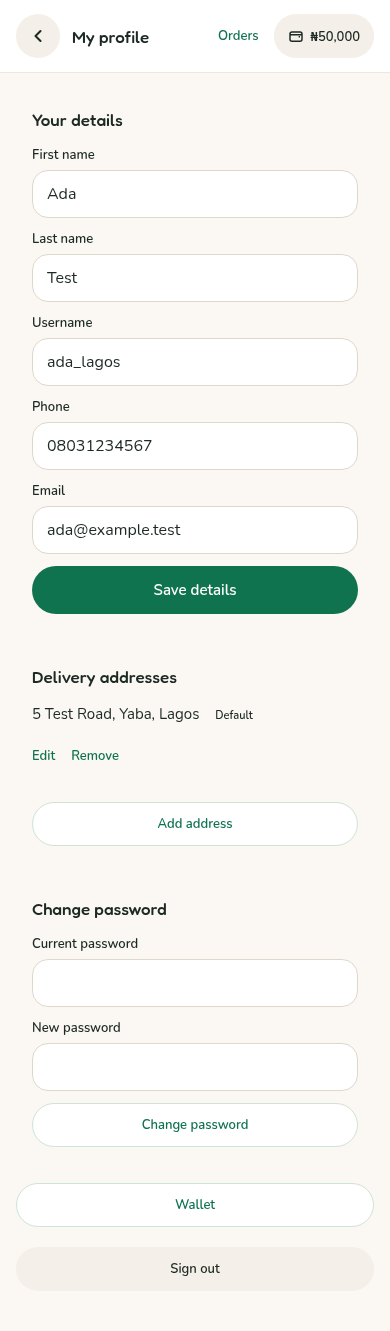
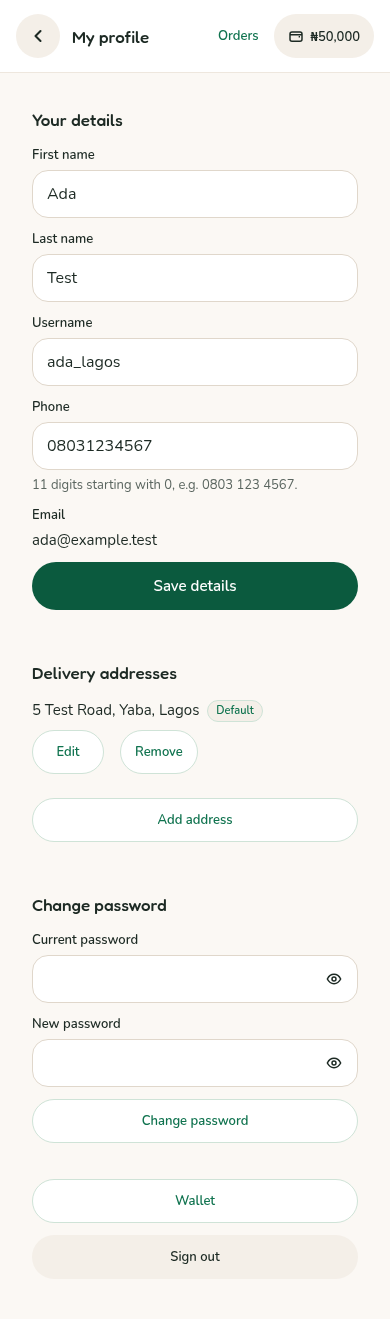
Polish address, wallet consent and profile controls
Align real wallet-sheet bank consent at 360px and 390px, disable address and purchase continuation outside the service area, and use matching local 11-digit phone rules and wording across buyer, studio and phone/pickup writes. Keep classic signup validation intact while studio submits local phone numbers.

Show profile email as text, add 44px address buttons, style Default and align account actions, add independent password visibility controls, and group the current-location note under the selected address. Retake all eight phone screenshots plus a narrow-wallet capture, add browser assertions and phone parity/API tests, and update PR notes.

diff --git a/buyer-web/src/pages/Me.jsx b/buyer-web/src/pages/Me.jsx
@@ -3,8 +3,13 @@ import {useEffect,useState} from 'react';
 import {Link,Navigate} from 'react-router-dom';
 import {api,errorMessage} from '../api';
 import {useAuth} from '../auth';
-import {Header} from '../components/ui';
+import {PHONE_HINT} from '../phone';
+import {Header,Icon} from '../components/ui';
 import AddressSheet,{phoneProblem} from '../components/AddressSheet';
+function PasswordField({label,id,value,onChange,newPassword=false}){
+ const [visible,setVisible]=useState(false);
+ return <div className="fl"><label className="lab" htmlFor={id}>{label}</label><div className="profile-password"><input id={id} className="in" type={visible?'text':'password'} autoComplete={newPassword?'new-password':'current-password'} minLength={newPassword?8:undefined} maxLength={newPassword?72:undefined} required value={value} onChange={onChange}/><button type="button" className="ib" aria-label={`${visible?'Hide':'Show'} ${label.toLowerCase()}`} aria-pressed={visible} aria-controls={id} onClick={()=>setVisible(v=>!v)}>{Icon.eye}{visible&&<span className="eye-slash" aria-hidden="true"/>}</button></div></div>;
+}
 export default function Me(){
  const {buyer,loading,signedIn,refresh,signIn,signOut}=useAuth();
  const [profile,setProfile]=useState({}),[editing,setEditing]=useState(null),[busy,setBusy]=useState(false),[error,setError]=useState(''),[notice,setNotice]=useState(''),[password,setPassword]=useState({currentPassword:'',newPassword:''});
@@ -15,11 +20,11 @@ export default function Me(){
  return <div className="app"><Header back="/" title="My profile"/><main className="wrap buyer-profile" style={{padding:'20px 16px 40px',display:'flex',flexDirection:'column',gap:20,maxWidth:560}}>
   {error&&<p className="err" role="alert">{error}</p>}{notice&&<p className="hint" role="status">{notice}</p>}
   <form className="card" style={{padding:16,display:'grid',gap:12}} onSubmit={e=>{e.preventDefault();action(async()=>{if(phoneProblem(profile.phoneNumber))throw {message:phoneProblem(profile.phoneNumber),response:{data:{message:phoneProblem(profile.phoneNumber)}}};await api.updateProfile({firstName:profile.firstName,lastName:profile.lastName,username:profile.username});await api.savePhone(profile.phoneNumber);await refresh();setNotice('Profile saved.');});}}>
-   <h1 className="h2">Your details</h1>{[['firstName','First name'],['lastName','Last name'],['username','Username'],['phoneNumber','Phone']].map(([key,label])=><label className="lab" key={key}>{label}<input className="in" value={profile[key] || ''} type={key==='phoneNumber'?'tel':'text'} autoComplete={key==='phoneNumber'?'tel':key==='username'?'username':key==='firstName'?'given-name':'family-name'} onChange={e=>setProfile({...profile,[key]:e.target.value})} required/></label>)}
-   <label className="lab">Email<input className="in" type="email" value={buyer.email || ''} readOnly/></label><button className="btn" disabled={busy}>Save details</button>
+   <h1 className="h2">Your details</h1>{[['firstName','First name'],['lastName','Last name'],['username','Username'],['phoneNumber','Phone']].map(([key,label])=><label className="lab" key={key}>{label}<input className="in" value={profile[key] || ''} type={key==='phoneNumber'?'tel':'text'} autoComplete={key==='phoneNumber'?'tel':key==='username'?'username':key==='firstName'?'given-name':'family-name'} onChange={e=>setProfile({...profile,[key]:e.target.value})} required={key!=='phoneNumber'}/>{key==='phoneNumber'&&<span className="hint">{PHONE_HINT}</span>}</label>)}
+   <div className="fl"><span className="lab">Email</span><span className="profile-email">{buyer.email}</span></div><button className="btn" disabled={busy}>Save details</button>
   </form>
-  <section className="card" style={{padding:16,display:'grid',gap:12}}><h2 className="h2">Delivery addresses</h2>{!buyer.shippingAddresses?.length&&<p className="hint">Add an address before your first bid.</p>}{buyer.shippingAddresses?.map(a=><div key={a._id} style={{borderBottom:'1px solid var(--line)',paddingBottom:12}}><p style={{margin:'0 0 8px'}}>{[a.addressLine1,a.city,a.state].filter(Boolean).join(', ')}{a.isActive&&<span className="pill">Default</span>}</p><div style={{display:'flex',gap:16,flexWrap:'wrap'}}><button className="link" disabled={busy} onClick={()=>setEditing(a)}>Edit</button>{!a.isActive&&<button className="link" disabled={busy} onClick={()=>action(async()=>{await api.activateAddress(a._id);await refresh();})}>Set default</button>}<button className="link" disabled={busy} onClick={()=>{if(window.confirm('Remove this delivery address?'))action(async()=>{await api.removeAddress(a._id);await refresh();});}}>Remove</button></div></div>)}<button className="btn2" onClick={()=>setEditing({})}>Add address</button></section>
-  <form className="card" style={{padding:16,display:'grid',gap:12}} onSubmit={e=>{e.preventDefault();action(async()=>{const result=await api.changePassword(password);await signIn(result.token,{quiet:true});setPassword({currentPassword:'',newPassword:''});setNotice('Password changed. Other devices have been signed out.');});}}><h2 className="h2">Change password</h2><label className="lab">Current password<input className="in" type="password" autoComplete="current-password" required value={password.currentPassword} onChange={e=>setPassword({...password,currentPassword:e.target.value})}/></label><label className="lab">New password<input className="in" type="password" autoComplete="new-password" minLength={8} maxLength={72} required value={password.newPassword} onChange={e=>setPassword({...password,newPassword:e.target.value})}/></label><button className="btn2" disabled={busy}>Change password</button></form>
-  <Link className="btn2" to="/wallet">Wallet</Link><button className="btn3" onClick={signOut}>Sign out</button>
+  <section className="card" style={{padding:16,display:'grid',gap:12}}><h2 className="h2">Delivery addresses</h2>{!buyer.shippingAddresses?.length&&<p className="hint">Add an address before your first bid.</p>}{buyer.shippingAddresses?.map(a=><div key={a._id} style={{borderBottom:'1px solid var(--line)',paddingBottom:12}}><p style={{margin:'0 0 8px'}}>{[a.addressLine1,a.city,a.state].filter(Boolean).join(', ')}{a.isActive&&<span className="pill profile-default">Default</span>}</p><div style={{display:'flex',gap:16,flexWrap:'wrap'}}><button className="btn2 profile-address-action" disabled={busy} onClick={()=>setEditing(a)}>Edit</button>{!a.isActive&&<button className="btn2 profile-address-action" disabled={busy} onClick={()=>action(async()=>{await api.activateAddress(a._id);await refresh();})}>Set default</button>}<button className="btn2 profile-address-action" disabled={busy} onClick={()=>{if(window.confirm('Remove this delivery address?'))action(async()=>{await api.removeAddress(a._id);await refresh();});}}>Remove</button></div></div>)}<button className="btn2" onClick={()=>setEditing({})}>Add address</button></section>
+  <form className="card" style={{padding:16,display:'grid',gap:12}} onSubmit={e=>{e.preventDefault();action(async()=>{const result=await api.changePassword(password);await signIn(result.token,{quiet:true});setPassword({currentPassword:'',newPassword:''});setNotice('Password changed. Other devices have been signed out.');});}}><h2 className="h2">Change password</h2><PasswordField label="Current password" id="profile-current-password" value={password.currentPassword} onChange={e=>setPassword({...password,currentPassword:e.target.value})}/><PasswordField label="New password" id="profile-new-password" newPassword value={password.newPassword} onChange={e=>setPassword({...password,newPassword:e.target.value})}/><button className="btn2" disabled={busy}>Change password</button></form>
+  <div className="profile-account-actions"><Link className="btn2" to="/wallet">Wallet</Link><button className="btn3" onClick={signOut}>Sign out</button></div>
  </main>{editing!==null&&<AddressSheet initialAddress={editing} onClose={()=>setEditing(null)} onSaved={()=>{setEditing(null);setNotice('Address saved.');}}/>}</div>;
 }

diff --git a/buyer-web/src/components/GoogleAddress.jsx b/buyer-web/src/components/GoogleAddress.jsx
@@ -18,13 +18,14 @@ export default function GoogleAddress({config,value,onChange,onNotify,needContac
     return()=>{clearTimeout(timer);sequence.current++;};
   },[query,status,editing,config]);
   useEffect(()=>{if(status==='fallback'&&config?.states?.length===1&&!allowedPlace(config,value.state))onChange({state:config.states[0],city:'',lga:'',addressLine1:'',latitude:null,longitude:null,addressSource:'manual',formattedAddress:''});},[status,config,value.state,onChange]);
-  const apply=place=>{
+  const [fromLocation,setFromLocation]=useState(false);
+  const apply=(place,currentLocation=false)=>{
     if(!config?.states?.length){setError('Delivery areas are still loading. Please try again.');return;}
     const address=mapPlace(place);
     if(address.country.toUpperCase()!=='NG'){setError('Choose an address in Nigeria.');return;}
     if(!allowedPlace(config,address.state)){setSuggestions([]);setNotice('');setOutside(address.state);onChange({...address,addressLine1:''});return;}
     if(!address.addressLine1||!address.city||!Number.isFinite(address.latitude)||!Number.isFinite(address.longitude)){setError('Google didn’t return a complete address. Choose your area below.');setStatus('fallback');return;}
-    setOutside(null);onChange(address);setSuggestions([]);setEditing(false);setError('');
+    setFromLocation(currentLocation);setOutside(null);onChange(address);setSuggestions([]);setEditing(false);setError('');
   };
   const pick=async suggestion=>{setBusy(true);setError('');sequence.current++;try{
     const place=suggestion.placePrediction.toPlace();await place.fetchFields({fields:PLACE_FIELDS});if(active.current)apply(place);
@@ -36,14 +37,14 @@ export default function GoogleAddress({config,value,onChange,onNotify,needContac
     setBusy(true);navigator.geolocation.getCurrentPosition(async position=>{try{
       const {Geocoder}=await sdk.current.maps.importLibrary('geocoding');
       const result=await new Geocoder().geocode({location:{lat:position.coords.latitude,lng:position.coords.longitude},region:'ng'});
-      if(active.current){if(!result.results?.length)throw new Error('empty');apply(result.results[0]);setNotice('Address found from your current location.');}
+      if(active.current){if(!result.results?.length)throw new Error('empty');apply(result.results[0],true);setNotice('');}
     }catch{if(active.current)setError('We couldn’t find an address at your location. Type your address instead.');}
     finally{if(active.current)setBusy(false);}},failure=>{if(active.current){setBusy(false);setNotice('');setError(failure.code===1?'Location permission was denied. Type your address instead.':'We couldn’t get your location. Type your address instead.');}},{enableHighAccuracy:true,timeout:12000,maximumAge:30000});
   };
   if(status==='fallback')return <>{error&&<p className="hint" role="status">{error}</p>}{children}</>;
   return <section className="ga-address" aria-label="Find your address">
     {status==='loading'?<p className="hint" role="status">Loading address search…</p>:<>
-      {!editing&&value.addressLine1?<div className="ga-picked"><span>{value.formattedAddress || [value.addressLine1,value.city,value.state].filter(Boolean).join(', ')}</span><button type="button" className="link" onClick={()=>{setEditing(true);setQuery('');setNotice('');onChange({addressLine1:'',city:'',lga:'',latitude:null,longitude:null,addressSource:'manual',formattedAddress:''});}}>Change</button></div>:<>
+      {!editing&&value.addressLine1?<div className="ga-selection"><div className="ga-picked"><span>{value.formattedAddress || [value.addressLine1,value.city,value.state].filter(Boolean).join(', ')}</span><button type="button" className="link" onClick={()=>{setEditing(true);setQuery('');setNotice('');onChange({addressLine1:'',city:'',lga:'',latitude:null,longitude:null,addressSource:'manual',formattedAddress:''});}}>Change</button></div>{fromLocation&&<p className="hint ga-location-note" role="status">Address found from your current location</p>}</div>:<>
         <label className="lab" htmlFor={`places-${id}`}>Start typing your street or building</label>
         <input id={`places-${id}`} className="in" placeholder="Start typing your street or building" value={query} disabled={busy} autoComplete="off" role="combobox" aria-autocomplete="list" aria-expanded={suggestions.length>0} aria-controls={`places-list-${id}`} aria-activedescendant={suggestions.length?`places-option-${id}-${highlight}`:undefined} onChange={e=>{setQuery(e.target.value);setError('');setOutside(null);}} onKeyDown={e=>{if(e.key==='ArrowDown'&&suggestions.length){e.preventDefault();setHighlight(i=>(i+1)%suggestions.length);}if(e.key==='ArrowUp'&&suggestions.length){e.preventDefault();setHighlight(i=>(i+suggestions.length-1)%suggestions.length);}if(e.key==='Enter'){e.preventDefault();if(suggestions[highlight])pick(suggestions[highlight]);}if(e.key==='Escape'&&suggestions.length){e.preventDefault();e.stopPropagation();setSuggestions([]);}}} />
         {!!suggestions.length&&<div id={`places-list-${id}`} className="ga-suggestions" role="listbox">{suggestions.map((suggestion,i)=><button id={`places-option-${id}-${i}`} key={suggestion.placePrediction.placeId || i} type="button" role="option" aria-selected={i===highlight} disabled={busy} onClick={()=>pick(suggestion)}>{suggestion.placePrediction.text.toString()}</button>)}</div>}

diff --git a/seller-web/src/studio/GoogleAddress.jsx b/seller-web/src/studio/GoogleAddress.jsx
@@ -18,13 +18,14 @@ export default function GoogleAddress({config,value,onChange,onNotify,needContac
     return()=>{clearTimeout(timer);sequence.current++;};
   },[query,status,editing,config]);
   useEffect(()=>{if(status==='fallback'&&config?.states?.length===1&&!allowedPlace(config,value.state))onChange({state:config.states[0],city:'',lga:'',addressLine1:'',latitude:null,longitude:null,addressSource:'manual',formattedAddress:''});},[status,config,value.state,onChange]);
-  const apply=place=>{
+  const [fromLocation,setFromLocation]=useState(false);
+  const apply=(place,currentLocation=false)=>{
     if(!config?.states?.length){setError('Delivery areas are still loading. Please try again.');return;}
     const address=mapPlace(place);
     if(address.country.toUpperCase()!=='NG'){setError('Choose an address in Nigeria.');return;}
     if(!allowedPlace(config,address.state)){setSuggestions([]);setNotice('');setOutside(address.state);onChange({...address,addressLine1:''});return;}
     if(!address.addressLine1||!address.city||!Number.isFinite(address.latitude)||!Number.isFinite(address.longitude)){setError('Google didn’t return a complete address. Choose your area below.');setStatus('fallback');return;}
-    setOutside(null);onChange(address);setSuggestions([]);setEditing(false);setError('');
+    setFromLocation(currentLocation);setOutside(null);onChange(address);setSuggestions([]);setEditing(false);setError('');
   };
   const pick=async suggestion=>{setBusy(true);setError('');sequence.current++;try{
     const place=suggestion.placePrediction.toPlace();await place.fetchFields({fields:PLACE_FIELDS});if(active.current)apply(place);
@@ -36,14 +37,14 @@ export default function GoogleAddress({config,value,onChange,onNotify,needContac
     setBusy(true);navigator.geolocation.getCurrentPosition(async position=>{try{
       const {Geocoder}=await sdk.current.maps.importLibrary('geocoding');
       const result=await new Geocoder().geocode({location:{lat:position.coords.latitude,lng:position.coords.longitude},region:'ng'});
-      if(active.current){if(!result.results?.length)throw new Error('empty');apply(result.results[0]);setNotice('Address found from your current location.');}
+      if(active.current){if(!result.results?.length)throw new Error('empty');apply(result.results[0],true);setNotice('');}
     }catch{if(active.current)setError('We couldn’t find an address at your location. Type your address instead.');}
     finally{if(active.current)setBusy(false);}},failure=>{if(active.current){setBusy(false);setNotice('');setError(failure.code===1?'Location permission was denied. Type your address instead.':'We couldn’t get your location. Type your address instead.');}},{enableHighAccuracy:true,timeout:12000,maximumAge:30000});
   };
   if(status==='fallback')return <>{error&&<p className="hint" role="status">{error}</p>}{children}</>;
   return <section className="ga-address" aria-label="Find your address">
     {status==='loading'?<p className="hint" role="status">Loading address search…</p>:<>
-      {!editing&&value.addressLine1?<div className="ga-picked"><span>{value.formattedAddress || [value.addressLine1,value.city,value.state].filter(Boolean).join(', ')}</span><button type="button" className="link" onClick={()=>{setEditing(true);setQuery('');setNotice('');onChange({addressLine1:'',city:'',lga:'',latitude:null,longitude:null,addressSource:'manual',formattedAddress:''});}}>Change</button></div>:<>
+      {!editing&&value.addressLine1?<div className="ga-selection"><div className="ga-picked"><span>{value.formattedAddress || [value.addressLine1,value.city,value.state].filter(Boolean).join(', ')}</span><button type="button" className="link" onClick={()=>{setEditing(true);setQuery('');setNotice('');onChange({addressLine1:'',city:'',lga:'',latitude:null,longitude:null,addressSource:'manual',formattedAddress:''});}}>Change</button></div>{fromLocation&&<p className="hint ga-location-note" role="status">Address found from your current location</p>}</div>:<>
         <label className="lab" htmlFor={`places-${id}`}>Start typing your street or building</label>
         <input id={`places-${id}`} className="in" placeholder="Start typing your street or building" value={query} disabled={busy} autoComplete="off" role="combobox" aria-autocomplete="list" aria-expanded={suggestions.length>0} aria-controls={`places-list-${id}`} aria-activedescendant={suggestions.length?`places-option-${id}-${highlight}`:undefined} onChange={e=>{setQuery(e.target.value);setError('');setOutside(null);}} onKeyDown={e=>{if(e.key==='ArrowDown'&&suggestions.length){e.preventDefault();setHighlight(i=>(i+1)%suggestions.length);}if(e.key==='ArrowUp'&&suggestions.length){e.preventDefault();setHighlight(i=>(i+suggestions.length-1)%suggestions.length);}if(e.key==='Enter'){e.preventDefault();if(suggestions[highlight])pick(suggestions[highlight]);}if(e.key==='Escape'&&suggestions.length){e.preventDefault();e.stopPropagation();setSuggestions([]);}}} />
         {!!suggestions.length&&<div id={`places-list-${id}`} className="ga-suggestions" role="listbox">{suggestions.map((suggestion,i)=><button id={`places-option-${id}-${i}`} key={suggestion.placePrediction.placeId || i} type="button" role="option" aria-selected={i===highlight} disabled={busy} onClick={()=>pick(suggestion)}>{suggestion.placePrediction.text.toString()}</button>)}</div>}

diff --git a/buyer-web/src/components/StayOnStreamTopUps.jsx b/buyer-web/src/components/StayOnStreamTopUps.jsx
@@ -2,12 +2,13 @@ import { useEffect, useRef, useState } from 'react';
 import { api, errorMessage, naira } from '../api';
 import { resumeSavedCard } from '../payments';
 import { useAuth } from '../auth';
-import {phoneProblem} from './AddressSheet';
+import {phoneProblem,PHONE_HINT} from '../phone';
 import { oneTapAmount } from '../walletIntents';
 
 export default function StayOnStreamTopUps({ methods, amount, need, onDone, onWaiting, onPending, onMethod, onUseAnotherCard, onBusyChange, initialBank }) {
   const { buyer,refresh } = useAuth();
   const [phone,setPhone]=useState('');
+  const needsPhone=Boolean(phoneProblem(buyer?.phoneNumber));
   const [cards, setCards] = useState([]), [dva, setDva] = useState({ status: 'none' });
   const [bank, setBank] = useState(Boolean(initialBank)), [consent, setConsent] = useState(false);
   const [error, setError] = useState(''), [busy, setBusy] = useState(''), [notice, setNotice] = useState('');
@@ -59,7 +60,7 @@ export default function StayOnStreamTopUps({ methods, amount, need, onDone, onWa
   };
   const assign = async () => {
     setBusy('Setting up your account number…'); setError('');
-    try { if(!buyer?.phoneNumber){const problem=phoneProblem(phone);if(problem)throw {response:{data:{message:problem}}};await api.savePhone(phone);await refresh();} const account = await api.assignDva(); setDva(account); callbacks.current.onWaiting?.({ ...account, since: waitingSince.current }); }
+    try { if(needsPhone){const problem=phoneProblem(phone);if(problem)throw {response:{data:{message:problem}}};await api.savePhone(phone);await refresh();} const account = await api.assignDva(); setDva(account); callbacks.current.onWaiting?.({ ...account, since: waitingSince.current }); }
     catch (e) { setError(errorMessage(e, 'We can’t set up an account number right now. Use a card instead.')); }
     finally { if (mounted.current) setBusy(''); }
   };
@@ -94,8 +95,8 @@ export default function StayOnStreamTopUps({ methods, amount, need, onDone, onWa
       <h3 className="h2">Get your own account number</h3>
       <p className="hint">Paystack opens a bank account number in your name. Any transfer to it lands in your gbam wallet in seconds. You keep it for every show.</p>
       <span>{[buyer?.firstName, buyer?.lastName].filter(Boolean).join(' ') || 'Add your name in your profile'}</span>
-      <span className="hint">{buyer?.phoneNumber ? `•••••••${buyer.phoneNumber.slice(-4)}` : 'Add your phone here to get an account number.'}</span>
-      {!buyer?.phoneNumber&&<div className="fl"><label className="lab" htmlFor="dva-phone">Phone</label><input id="dva-phone" className="in" type="tel" autoComplete="tel" placeholder="0803 123 4567" value={phone} onChange={e=>setPhone(e.target.value)}/></div>}
+      <span className="hint">{!needsPhone ? `•••••••${buyer.phoneNumber.slice(-4)}` : 'Add your phone here to get an account number.'}</span>
+      {needsPhone&&<div className="fl"><label className="lab" htmlFor="dva-phone">Phone</label><input id="dva-phone" className="in" type="tel" autoComplete="tel" placeholder="0803 123 4567" value={phone} onChange={e=>setPhone(e.target.value)}/><span className="hint">{PHONE_HINT}</span></div>}
       <label className="hint"><input type="checkbox" checked={consent} onChange={(e) => setConsent(e.target.checked)} /> I agree to Paystack opening an account number in my name for gbam top-ups.</label>
       <button type="button" className="btn" disabled={!consent} onClick={assign}>Get my account number</button>
     </>}

diff --git a/seller-web/src/studio/Entry.jsx b/seller-web/src/studio/Entry.jsx
@@ -1,3 +1,4 @@
+import {PHONE_HINT,PHONE_ERROR,phoneProblem,phoneDigits} from './phone';
 // Sign in, sign up and forgot password for the studio.
 // Forgot password has two ways in: the 6-digit code (email → code + new password),
 // and the link in the email (?token=… from the link email, or ?email=…&code=… from
@@ -40,7 +41,7 @@ function fieldIssue(issue, form) {
     newPassword: weakPassword(form.newPassword),
     fullName: 'Add your full name.',
     storeName: 'Add a store name. You can change it later.',
-    phoneNumber: 'Enter the 10 digits after +234, like 801 234 5678.',
+    phoneNumber: PHONE_ERROR,
     termsAccepted: 'Tick the box to agree to the Terms and Seller policy.',
     otp: 'Enter the 6-digit code from the email.',
   }[field];
@@ -212,11 +213,12 @@ export default function Entry({ mode = 'login' }) {
           setStep('done');
         }
       } else if (mode === 'signup') {
-        let phoneNumber = form.phoneNumber.replace(/\D/g, '');
-        if (phoneNumber.startsWith('234')) phoneNumber = phoneNumber.slice(3);
-        if (phoneNumber.startsWith('0')) phoneNumber = phoneNumber.slice(1);
+        const phoneNumber=phoneDigits(form.phoneNumber);
+        if(phoneProblem(phoneNumber))throw {issues:[{path:['phoneNumber'],message:PHONE_ERROR}]};
         // No "confirm password" on screen: the eye shows what was typed
-        await finish(await authService.signUp(signupSchema.parse({ ...form, phoneNumber, confirmPassword: form.password })));
+        // Keep the classic signup schema for classic screens; studio submits the local form.
+        const validated=signupSchema.parse({...form,phoneNumber:phoneNumber.slice(1),confirmPassword:form.password});
+        await finish(await authService.signUp({...validated,phoneNumber}));
       } else {
         await finish(await authService.login(loginSchema.parse(form)));
       }
@@ -368,8 +370,8 @@ export default function Entry({ mode = 'login' }) {
               <Field id="en-email" label="Email" error={errors.email === 'used' ? <>This email already has a store. <Link to="/login">Sign in instead</Link>, or use another email.</> : errors.email}>
                 <div className={`inbox${errors.email ? ' bad' : ''}`}><input id="en-email" type="email" autoComplete="email" placeholder="you@example.com" value={form.email} onChange={set('email')} aria-invalid={!!errors.email} aria-describedby="en-email-err" /></div>
               </Field>
-              <Field id="en-phone" label="Phone" error={errors.phoneNumber}>
-                <div className={`inbox${errors.phoneNumber ? ' bad' : ''}`}><span className="pre">+234</span><input id="en-phone" type="tel" inputMode="numeric" autoComplete="tel-national" placeholder="801 234 5678" value={form.phoneNumber} onChange={set('phoneNumber')} aria-describedby="en-phone-err" /></div>
+              <Field id="en-phone" label="Phone" note={PHONE_HINT} error={errors.phoneNumber}>
+                <div className={`inbox${errors.phoneNumber ? ' bad' : ''}`}><input id="en-phone" type="tel" inputMode="numeric" autoComplete="tel-national" placeholder="0803 123 4567" value={form.phoneNumber} onChange={set('phoneNumber')} aria-describedby="en-phone-err" /></div>
               </Field>
             </div>
             <Field id="en-pw" label="Password" error={errors.password} hint="At least 8 characters.">

diff --git a/seller-web/src/studio/PickupAddress.jsx b/seller-web/src/studio/PickupAddress.jsx
@@ -1,3 +1,5 @@
+import {phoneProblem} from './phone';
+import {allowedPlace} from './googlePlaces';
 import {useEffect,useState} from 'react';
 import {useLocation,useNavigate} from 'react-router-dom';
 import {useAuthContext} from '@/Hooks/useAuthContextV2';
@@ -11,9 +13,10 @@ export default function PickupAddress() {
  const destination=location.state?.from;const back=()=>navigate(typeof destination==='string'&&(destination==='/studio'||destination.startsWith('/studio/'))&&destination!=='/studio/pickup'?destination:'/studio/me',{replace:true});
  useEffect(()=>{let active=true;Promise.all([onboarding.get(),serviceAreaConfig()]).then(([data,area])=>{if(active){setConfig(area);setValue({...data.pickup,state:data.pickup.state || area.states[0] || ''});}}).catch(()=>{if(active)setError('Couldn’t load your pickup address. Please try again.');});return()=>{active=false;};},[retry]);
  const save=async event=>{event.preventDefault();setBusy(true);setError('');try{
+  if(phoneProblem(value.phone))throw {response:{data:{message:phoneProblem(value.phone)}}};
   const result=await onboarding.pickup(value);const a=result.pickup;
   const updated={...seller,phoneNumber:a.phone,hasFilledAddress:true,hasFilledBusinessAddress:true,warehouseDetails:{...seller?.warehouseDetails,address:{country:'NG',state:a.state,city:a.city,lga:a.lga,addressLine1:a.addressLine1,addressLine2:a.landmark,latitude:a.latitude,longitude:a.longitude,addressSource:a.addressSource,formattedAddress:a.formattedAddress}}};
   sellerUtils.storeSeller(updated);dispatch?.({type:'STORE_SELLER',payload:updated});back();
  }catch(e){setError(errorText(e,'Couldn’t save your pickup address. Please try again.'));}finally{setBusy(false);}};
- return <div className="studio-app"><TopBar title="Pickup address" onBack={back}/><main className="ed-pad" style={{maxWidth:560,margin:'0 auto',paddingBottom:32}}><p className="mut">Where couriers collect your orders.</p>{error&&<Problem text={error} onRetry={!value?()=>{setError('');setRetry(n=>n+1);}:undefined}/>} {!value?(!error&&<p role="status">Loading pickup address…</p>):<form onSubmit={save} style={{display:'flex',flexDirection:'column',gap:16}}><PickupAddressForm config={config} value={value} onChange={setValue} onNotify={notifyDeliveryState}/><button className="btn" disabled={busy}>{busy?'Saving…':'Save pickup address'}</button></form>}</main></div>;
+ return <div className="studio-app"><TopBar title="Pickup address" onBack={back}/><main className="ed-pad" style={{maxWidth:560,margin:'0 auto',paddingBottom:32}}><p className="mut">Where couriers collect your orders.</p>{error&&<Problem text={error} onRetry={!value?()=>{setError('');setRetry(n=>n+1);}:undefined}/>} {!value?(!error&&<p role="status">Loading pickup address…</p>):<form onSubmit={save} style={{display:'flex',flexDirection:'column',gap:16}}><PickupAddressForm config={config} value={value} onChange={setValue} onNotify={notifyDeliveryState}/><button className="btn" disabled={busy || Boolean(config && value.state && !allowedPlace(config,value.state))}>{busy?'Saving…':'Save pickup address'}</button></form>}</main></div>;
 }

diff --git a/buyer-web/src/components/AddressSheet.jsx b/buyer-web/src/components/AddressSheet.jsx
@@ -11,15 +11,8 @@ import { useAuth } from '../auth';
 import { Sheet } from './ui';
 
 // The address form, shared by this sheet and the "One step, then your bid" sheet.
-// Nigerian mobile numbers: 0803 123 4567 (11 digits), +234 803 123 4567, or 803 123 4567
-export const phoneProblem = (raw) => {
-  const d = String(raw || '').replace(/[^\d]/g, '');
-  if (!d) return 'Add a phone number so the courier can reach you.';
-  const local = d.startsWith('234') ? d.slice(3) : d.startsWith('0') ? d.slice(1) : d;
-  if (local.length !== 10 || !/^[789]/.test(local)) return 'Check the phone number: it should look like 0803 123 4567 (11 digits).';
-  return '';
-};
-
+export {phoneProblem} from '../phone';
+import {phoneProblem,PHONE_HINT} from '../phone';
 export function useAddressForm(initialAddress = null) {
   const { buyer } = useAuth();
   const { config, error: areaError } = useServiceArea();
@@ -74,7 +67,7 @@ export function useAddressForm(initialAddress = null) {
   });
 
   const chooseArea = area => setForm(form=>({...form,city:area.name,lga:area.lga,latitude:null,longitude:null,addressSource:'manual',formattedAddress:''}));
-  return {form,set,chooseArea,states,cities,problem,save,config,buyer,chooseGoogleAddress:address=>setForm(form=>({...form,...address})),notify:(state,email)=>api.joinWaitlist({state,email})};
+  return {outOfArea:Boolean(config && form.state && !allowsState(config,form.state)),form,set,chooseArea,states,cities,problem,save,config,buyer,chooseGoogleAddress:address=>setForm(form=>({...form,...address})),notify:(state,email)=>api.joinWaitlist({state,email})};
 }
 
 export function AddressFields({ address, askPhone, idPrefix = 'ad', contactEmail = '' }) {
@@ -109,7 +102,8 @@ export function AddressFields({ address, askPhone, idPrefix = 'ad', contactEmail
       {(askPhone || address.config) && (
         <div className="fl">
           <label className="lab" htmlFor={`${idPrefix}-ph`}>Phone for the courier</label>
-          <input id={`${idPrefix}-ph`} className="in" type="tel" inputMode="tel" value={form.phoneNumber} onChange={set('phoneNumber')} placeholder="e.g. 0803 123 4567" autoComplete="tel" />
+          <input id={`${idPrefix}-ph`} className="in" type="tel" inputMode="tel" value={form.phoneNumber} onChange={set('phoneNumber')} placeholder="0803 123 4567" autoComplete="tel" />
+          <span className="hint">{PHONE_HINT}</span>
         </div>
       )}
     </>
@@ -146,7 +140,7 @@ export default function AddressSheet({ onClose, onSaved, top = null, initialAddr
       <form onSubmit={save} style={{ display: 'flex', flexDirection: 'column', gap: 12 }}>
         <AddressFields address={address} askPhone={!buyer?.phoneNumber} />
         {error && <span className="err" role="alert">{error}</span>}
-        <button type="submit" className="btn" disabled={busy}>{busy ? 'Saving…' : 'Save address'}</button>
+        <button type="submit" className="btn" disabled={busy || address.outOfArea}>{busy ? 'Saving…' : 'Save address'}</button>
       </form>
     </Sheet>
   );

diff --git a/seller-web/src/studio/Start.jsx b/seller-web/src/studio/Start.jsx
@@ -1,3 +1,5 @@
+import {PHONE_HINT,phoneProblem} from './phone';
+import {allowedPlace} from './googlePlaces';
 import PickupAddressForm from './PickupAddressForm';
 import {notifyDeliveryState} from './api';
 const LEGACY_PICKUP_FORM = false; // Existing manual form remains available as the Google fallback below.
@@ -88,6 +90,7 @@ export default function Start() {
   // Saves; offline, it waits and saves the moment the phone is back online
   const save = useCallback(async (kind, body, next) => {
     setError('');
+    if(kind==='pickup' && phoneProblem(body.phone)){setError(phoneProblem(body.phone));return;}
     if (!navigator.onLine) { setPending({ kind, body, next }); return; }
     setBusy(kind);
     try {
@@ -202,12 +205,12 @@ export default function Start() {
             <div className="fl">
               <label className="lab" htmlFor="pk-ph">Phone for couriers</label>
               <input id="pk-ph" className="in" type="tel" inputMode="tel" value={answers.phone || ''} onChange={set('phone')} placeholder="0803 123 4567" autoComplete="tel" />
-              <span className="hint">10 or 11 digits, e.g. 0803 123 4567</span>
+              <span className="hint">{PHONE_HINT}</span>
             </div>
             </> : <PickupAddressForm config={areaConfig} value={answers} onChange={next=>{setAnswers(next);keep(next);}} onNotify={notifyDeliveryState} />}
             {pending?.kind === 'pickup' && <span className="hint">We'll save this the moment you're back online. No need to type it again.</span>}
             {error && <Problem text={error} />}
-            <button type="button" className="btn" disabled={busy === 'pickup'} onClick={() => save('pickup', {state:answers.state,city:answers.city,lga:answers.lga,addressLine1:answers.addressLine1,landmark:answers.landmark,phone:answers.phone,latitude:answers.latitude,longitude:answers.longitude,addressSource:answers.addressSource,formattedAddress:answers.formattedAddress}, 'bank')}>
+            <button type="button" className="btn" disabled={busy === 'pickup' || Boolean(areaConfig && answers.state && !allowedPlace(areaConfig,answers.state))} onClick={() => save('pickup', {state:answers.state,city:answers.city,lga:answers.lga,addressLine1:answers.addressLine1,landmark:answers.landmark,phone:answers.phone,latitude:answers.latitude,longitude:answers.longitude,addressSource:answers.addressSource,formattedAddress:answers.formattedAddress}, 'bank')}>
               {busy === 'pickup' ? 'Saving…' : pending?.kind === 'pickup' ? 'Save when I’m back online' : 'Save address'}
             </button>
           </>

diff --git a/server/tests/routes/areaAddresses.test.js b/server/tests/routes/areaAddresses.test.js
@@ -45,7 +45,7 @@ test('inline phone save is buyer-only and normalises Nigerian numbers',async()=>
  const save=(token,phoneNumber)=>request(app).put('/api/v2/buyers/profile/phone').set('Authorization',`Bearer ${token}`).send({phoneNumber});
  expect((await save(sellerToken,'08031234567')).status).toBe(403);
  expect((await save(buyerToken,'123')).status).toBe(400);
- expect((await save(buyerToken,'+234 803 123 4567')).status).toBe(200);
+ expect((await save(buyerToken,'0803 123 4567')).status).toBe(200);
  expect((await Buyer.findById(buyer)).phoneNumber).toBe('08031234567');
 });
 test('change password requires current password and invalidates other sessions',async()=>{
@@ -61,4 +61,12 @@ test('guest and seller outside-state notifications deduplicate',async()=>{
  for(let i=0;i<2;i++)expect((await request(app).post('/api/v2/watch/waitlist').send({state:'Ogun',email:'guest@example.test'})).status).toBe(200);
  for(let i=0;i<2;i++)expect((await request(app).post('/api/v2/watch/waitlist').set('Authorization',`Bearer ${sellerToken}`).send({state:'Ogun'})).status).toBe(200);
  expect(await Waitlist.countDocuments({state:'ogun'})).toBe(2);
+});
+
+test.each(['8031234567','+2348031234567','0803123456','abc08031234567'])('buyer and seller phone writes reject %s with the same message',async phone=>{
+ const message=require('@utils/phone').PHONE_ERROR;
+ const buyerPhone=await request(app).put('/api/v2/buyers/profile/phone').set('Authorization',`Bearer ${buyerToken}`).send({phoneNumber:phone});
+ const buyerAddress=await request(app).post('/api/v2/buyers/addresses').set('Authorization',`Bearer ${buyerToken}`).send({...payload,phoneNumber:phone});
+ const sellerPickup=await request(app).put('/api/v2/studio/onboarding/pickup').set('Authorization',`Bearer ${sellerToken}`).send({...payload,phone});
+ for(const result of [buyerPhone,buyerAddress,sellerPickup]){expect(result.status).toBe(400);expect(result.body.message).toBe(message);}
 });

diff --git a/server/src/services/wallet/dva.js b/server/src/services/wallet/dva.js
@@ -2,11 +2,8 @@ const Buyer = require('../../models/Buyer');
 const Transaction = require('../../models/Transaction');
 const { client, requireMethod, WalletPaymentError: Error, emit } = require('./paystackClient');
 const failure = "We can't set up an account number right now. Use a card instead.";
-const phoneFor = (value) => {
-  let digits = String(value || '').replace(/\D/g, '');
-  if (digits.startsWith('234') && digits.length === 13) digits = `0${digits.slice(3)}`;
-  return /^0[789]\d{9}$/.test(digits) ? digits : null;
-};
+const {phoneDigits,phoneProblem,PHONE_ERROR}=require('../../utils/phone');
+const phoneFor = value => phoneProblem(value) ? null : phoneDigits(value);
 const details = (buyer) => ({ status: buyer.dva?.status || 'none', accountNumber: buyer.dva?.accountNumber,
   accountName: buyer.dva?.accountName, bankName: buyer.dva?.bankName, bankSlug: buyer.dva?.bankSlug,
   assignedAt: buyer.dva?.assignedAt });
@@ -32,7 +29,7 @@ async function assign(buyerId, consent) {
   if (buyer.dva?.status === 'active' || buyer.dva?.status === 'pending') return details(buyer);
   if (!buyer.firstName?.trim() || !buyer.lastName?.trim()) throw new Error(400, 'Add your first and last name to your profile.');
   const phone = phoneFor(buyer.phoneNumber);
-  if (!phone) throw new Error(400, 'Enter an 11-digit Nigerian phone number here to get your account number.');
+  if (!phone) throw new Error(400, PHONE_ERROR);
   const preferredBank = process.env.PAYSTACK_DVA_BANK || (process.env.PAYSTACK_SECRET_KEY?.startsWith('sk_test_') ? 'test-bank' : null);
   if (!preferredBank) throw new Error(503, failure);
   const claimed = await Buyer.findOneAndUpdate({ _id: buyerId, 'dva.status': { $nin: ['pending', 'active'] } },

diff --git a/seller-web/src/studio/PickupAddressForm.jsx b/seller-web/src/studio/PickupAddressForm.jsx
@@ -1,3 +1,4 @@
+import {PHONE_HINT} from './phone';
 import GoogleAddress from './GoogleAddress';
 import {PickupAreaField} from './ServiceArea';
 export default function PickupAddressForm({config,value,onChange,onNotify}) {
@@ -9,6 +10,6 @@ export default function PickupAddressForm({config,value,onChange,onNotify}) {
    <div className="fl"><label className="lab" htmlFor="pk-l1">Street address</label><input id="pk-l1" className="in" value={value.addressLine1 || ''} onChange={set('addressLine1')} autoComplete="street-address" /></div>
   </GoogleAddress>
   <div className="fl"><label className="lab" htmlFor="pk-lm">Landmark <span className="hint">optional</span></label><input id="pk-lm" className="in" value={value.landmark || ''} onChange={set('landmark')} /></div>
-  <div className="fl"><label className="lab" htmlFor="pk-ph">Phone for couriers</label><input id="pk-ph" className="in" type="tel" inputMode="tel" value={value.phone || ''} onChange={set('phone')} autoComplete="tel" placeholder="0803 123 4567" /><span className="hint">10 or 11 digits, e.g. 0803 123 4567</span></div>
+  <div className="fl"><label className="lab" htmlFor="pk-ph">Phone for couriers</label><input id="pk-ph" className="in" type="tel" inputMode="tel" value={value.phone || ''} onChange={set('phone')} autoComplete="tel" placeholder="0803 123 4567" /><span className="hint">{PHONE_HINT}</span></div>
  </>;
 }

diff --git a/buyer-web/src/components/OneStepSheet.jsx b/buyer-web/src/components/OneStepSheet.jsx
@@ -62,7 +62,7 @@ export default function OneStepSheet({ action, deposit = null, quote = null, pro
   const dep = chatOnly ? 0 : needAddress ? (typedQuote.status === 'ok' ? typedQuote.amount : null) : deposit;
   const depInfo = needAddress ? (typedQuote.status === 'ok' ? typedQuote : null) : quote;
   // A saved address is priced on the server when the button is pressed (finish)
-  const priced = chatOnly || !needAddress || dep !== null;
+  const priced = chatOnly || !needAddress || (!address.outOfArea && dep !== null);
   const cost = chatOnly ? 0 : action.amount + (dep || 0);
   const pay = chatOnly || !priced ? 0 : topUpFor(cost - available);
 
@@ -228,7 +228,7 @@ export default function OneStepSheet({ action, deposit = null, quote = null, pro
       )}
 
       {error.where === '' && error.text && <span className="err" role="alert">{error.text}</span>}
-      <button type="button" className="btn" disabled={Boolean(busy) || !priced} onClick={go}>{busy || buttonText}</button>
+      <button type="button" className="btn" disabled={Boolean(busy) || !priced || (needAddress && address.outOfArea)} onClick={go}>{busy || buttonText}</button>
       {!chatOnly && <span className="hint" style={{ textAlign: 'center' }}>The show keeps playing while you do this.</span>}
     </Sheet>
   );
